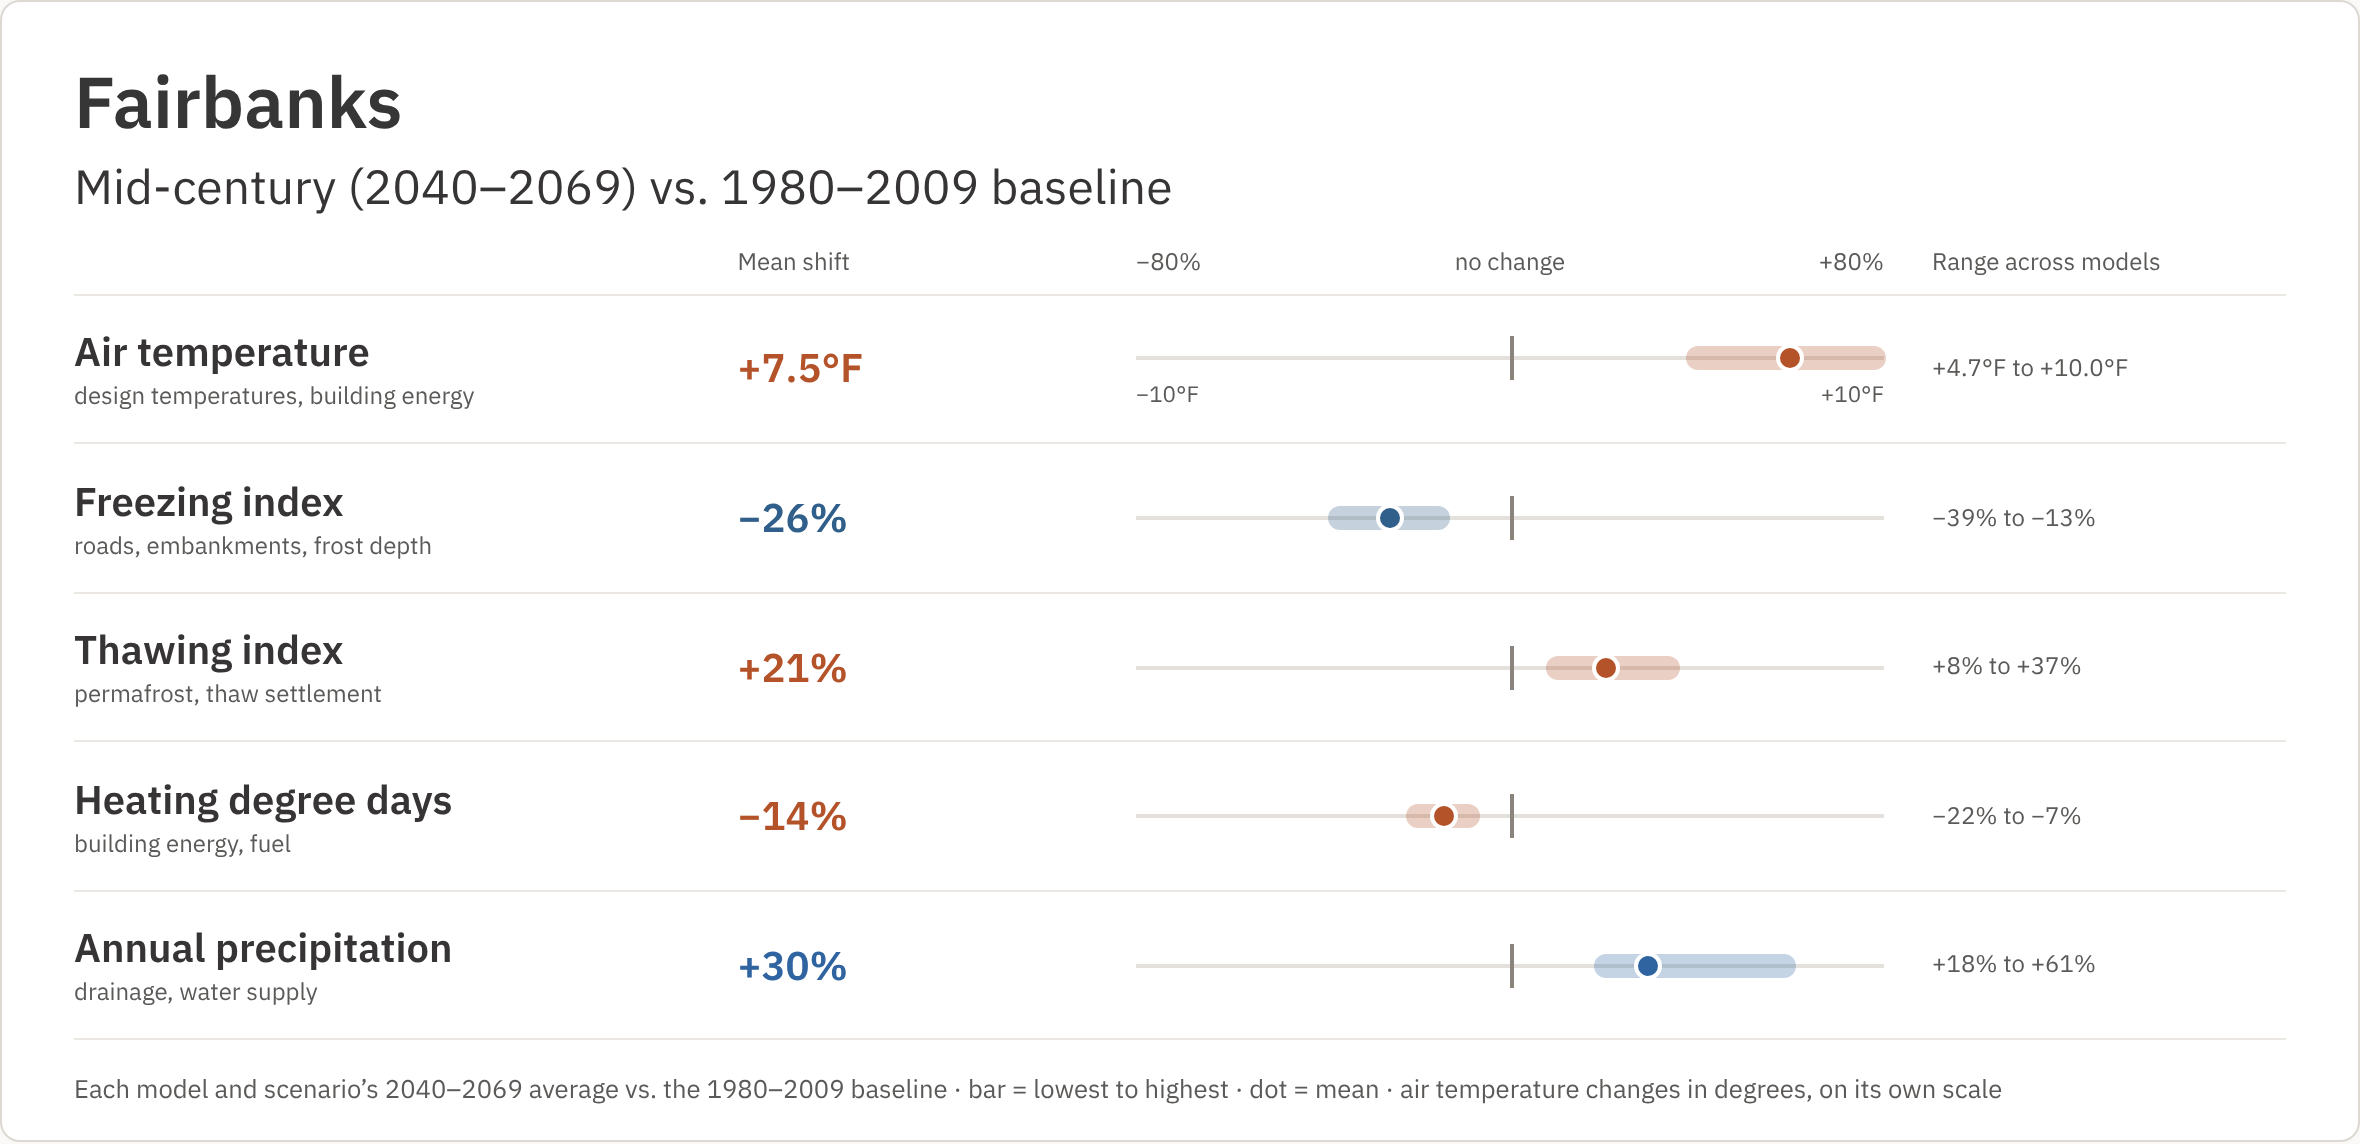
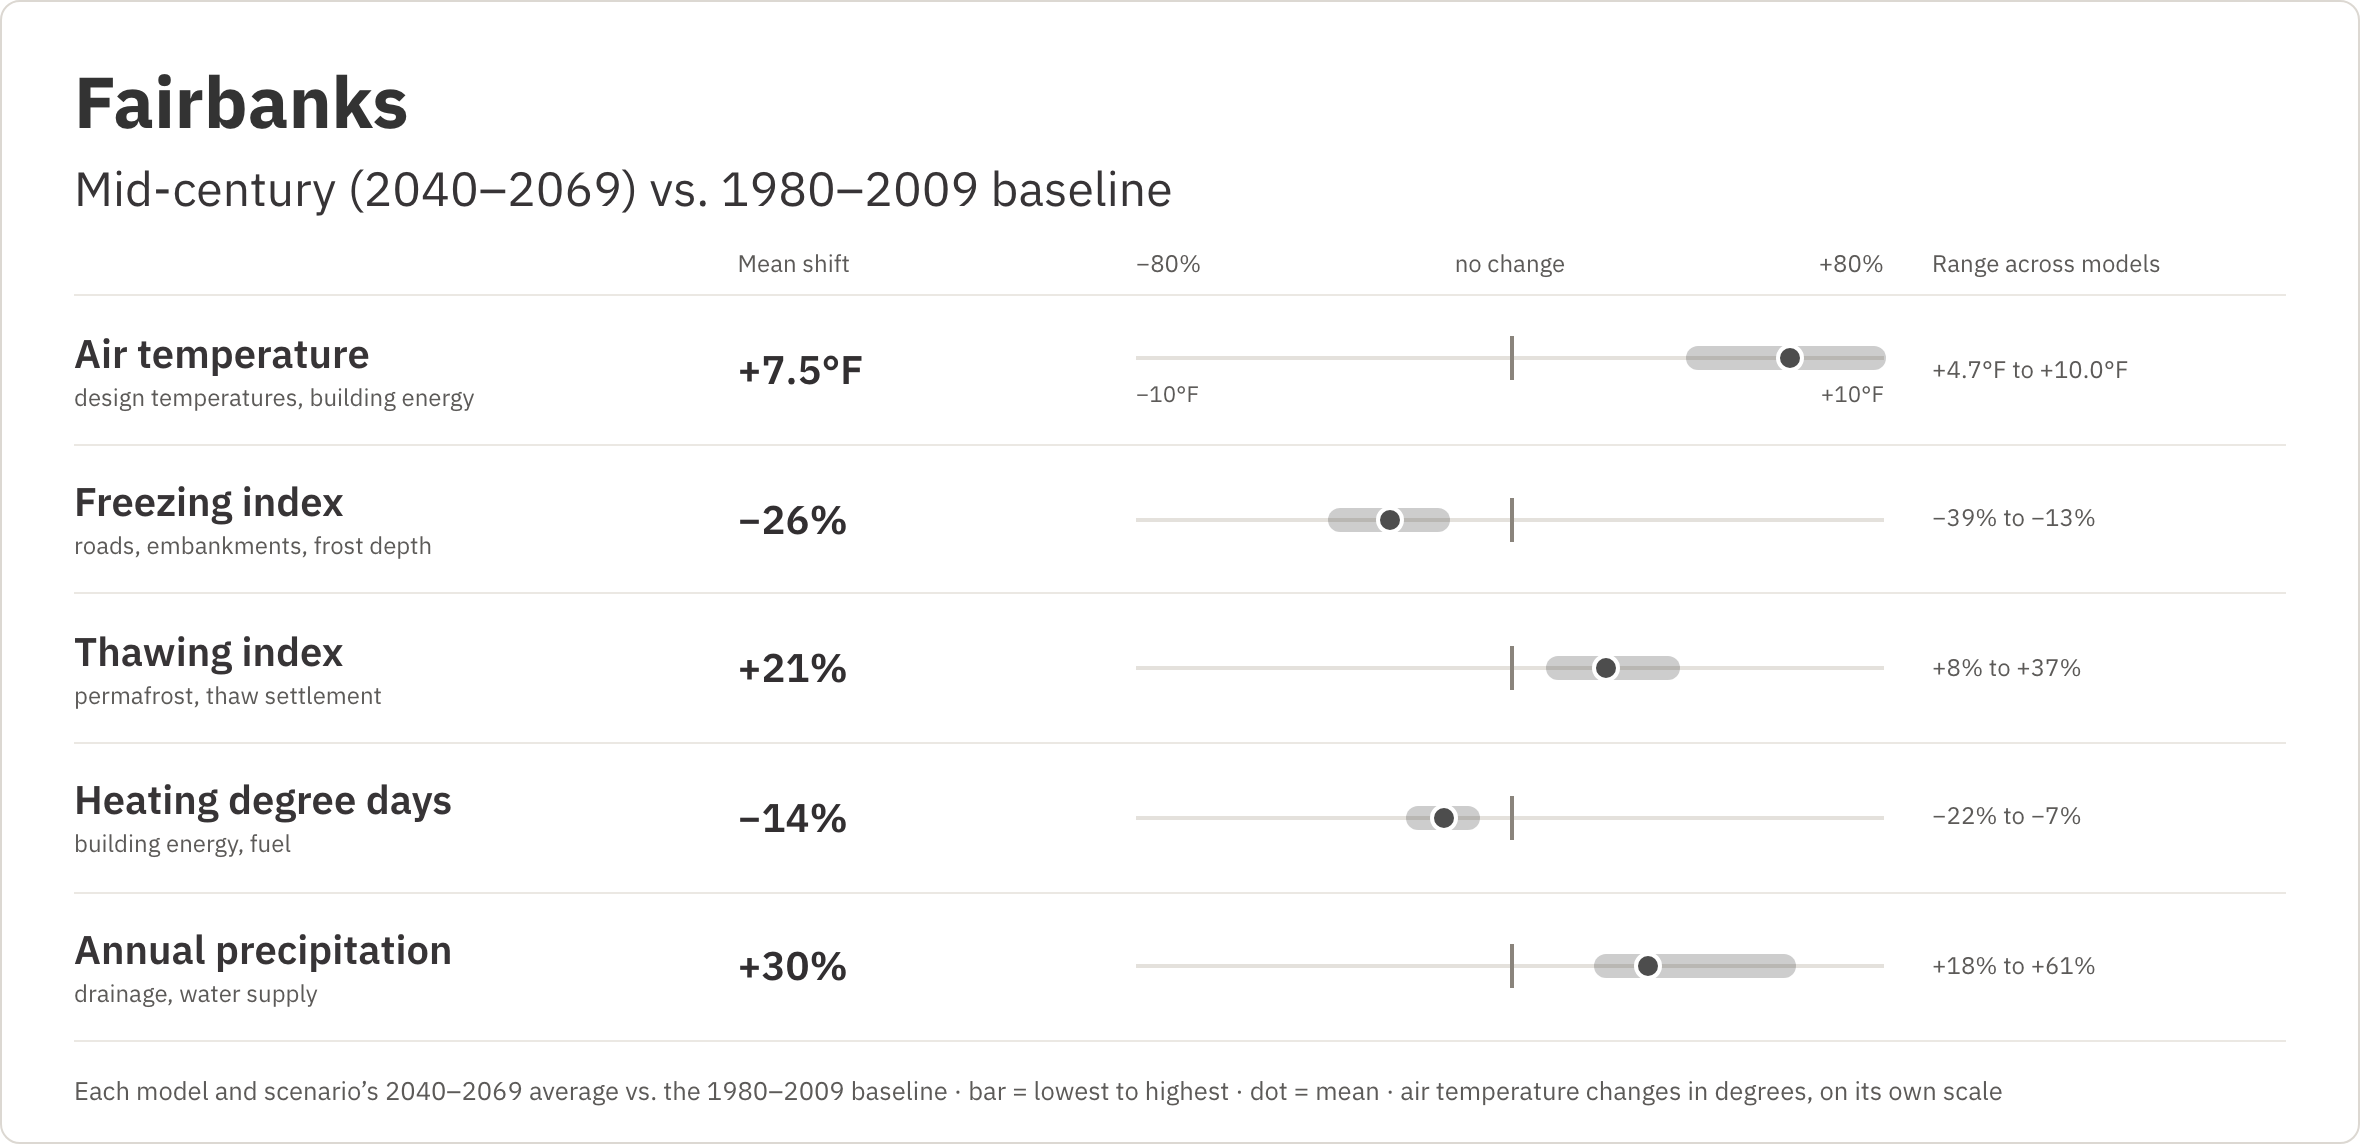
Draw the report summary in grayscale
The range bars, mean dots and mean shift values no longer take a warm,
cold or wet color, so the rows' tone setting goes too. The home page
picture is retaken to match.

diff --git a/app/components/report/ReportSummary.vue b/app/components/report/ReportSummary.vue
@@ -37,14 +37,13 @@
             <a :href="`#${row.section}`" class="name">{{ row.name }}</a>
             <span class="use">{{ row.use }}</span>
           </th>
-          <td class="value" :class="`is-${row.tone}`">{{ row.shift }}</td>
+          <td class="value">{{ row.shift }}</td>
           <td class="range-cell" aria-hidden="true">
             <div v-if="row.bar" class="range">
               <span class="range-track"></span>
               <span class="range-zero"></span>
               <span
                 class="range-bar"
-                :class="`is-${row.tone}`"
                 :style="{
                   left: position(row, row.low) + '%',
                   width: position(row, row.high) - position(row, row.low) + '%',
@@ -52,7 +51,6 @@
               ></span>
               <span
                 class="range-mean"
-                :class="`is-${row.tone}`"
                 :style="{ left: `calc(${position(row, row.mean)}% - 7px)` }"
               ></span>
             </div>
@@ -142,7 +140,6 @@ function precipitationRow() {
       name: 'Annual precipitation',
       use: 'drainage, water supply',
       section: 'annual-precipitation',
-      tone: 'wet',
       ...(!summary['1980-2009'] && { note: 'vs. the 1901–2015 average' }),
     },
     baseline.prmean,
@@ -175,7 +172,6 @@ function temperatureRow() {
     name: 'Air temperature',
     use: 'design temperatures, building energy',
     section: 'temperature',
-    tone: 'warm',
   }
   if (!means.length) {
     return { ...row, bar: false, shift: '—', note: '—' }
@@ -224,7 +220,6 @@ const rows = computed(() =>
           name: 'Freezing index',
           use: 'roads, embankments, frost depth',
           section: 'freezing-index',
-          tone: 'cold',
         })
       ),
     isThawingIndexPresent.value &&
@@ -233,7 +228,6 @@ const rows = computed(() =>
           name: 'Thawing index',
           use: 'permafrost, thaw settlement',
           section: 'thawing-index',
-          tone: 'warm',
         })
       ),
     isHeatingDegreeDaysPresent.value &&
@@ -242,7 +236,6 @@ const rows = computed(() =>
           name: 'Heating degree days',
           use: 'building energy, fuel',
           section: 'heating-degree-days',
-          tone: 'warm',
         })
       ),
     isPrecipitationPresent.value && safely(precipitationRow),
@@ -268,10 +261,8 @@ function position(row, change) {
 </script>
 
 <style lang="scss" scoped>
-$cold: #2f5f8a;
-$warm: #b4532a;
-$wet: #2f64a0;
 $muted: #5c5a58;
+$bar: #4d4d4d;
 $rule: #ebe8e3;
 
 .report-summary {
@@ -349,19 +340,6 @@ $rule: #ebe8e3;
   justify-content: space-between;
 }
 
-.is-cold {
-  color: $cold;
-  --tone: #{$cold};
-}
-.is-warm {
-  color: $warm;
-  --tone: #{$warm};
-}
-.is-wet {
-  color: $wet;
-  --tone: #{$wet};
-}
-
 // The ends of a row's own scale, under its bar.
 .row-scale {
   display: flex;
@@ -396,7 +374,7 @@ $rule: #ebe8e3;
     top: 7px;
     height: 12px;
     border-radius: 6px;
-    background: var(--tone);
+    background: $bar;
     opacity: 0.28;
   }
   .range-mean {
@@ -405,7 +383,7 @@ $rule: #ebe8e3;
     height: 14px;
     border: 2px solid #fff;
     border-radius: 7px;
-    background: var(--tone);
+    background: $bar;
   }
 }
 
